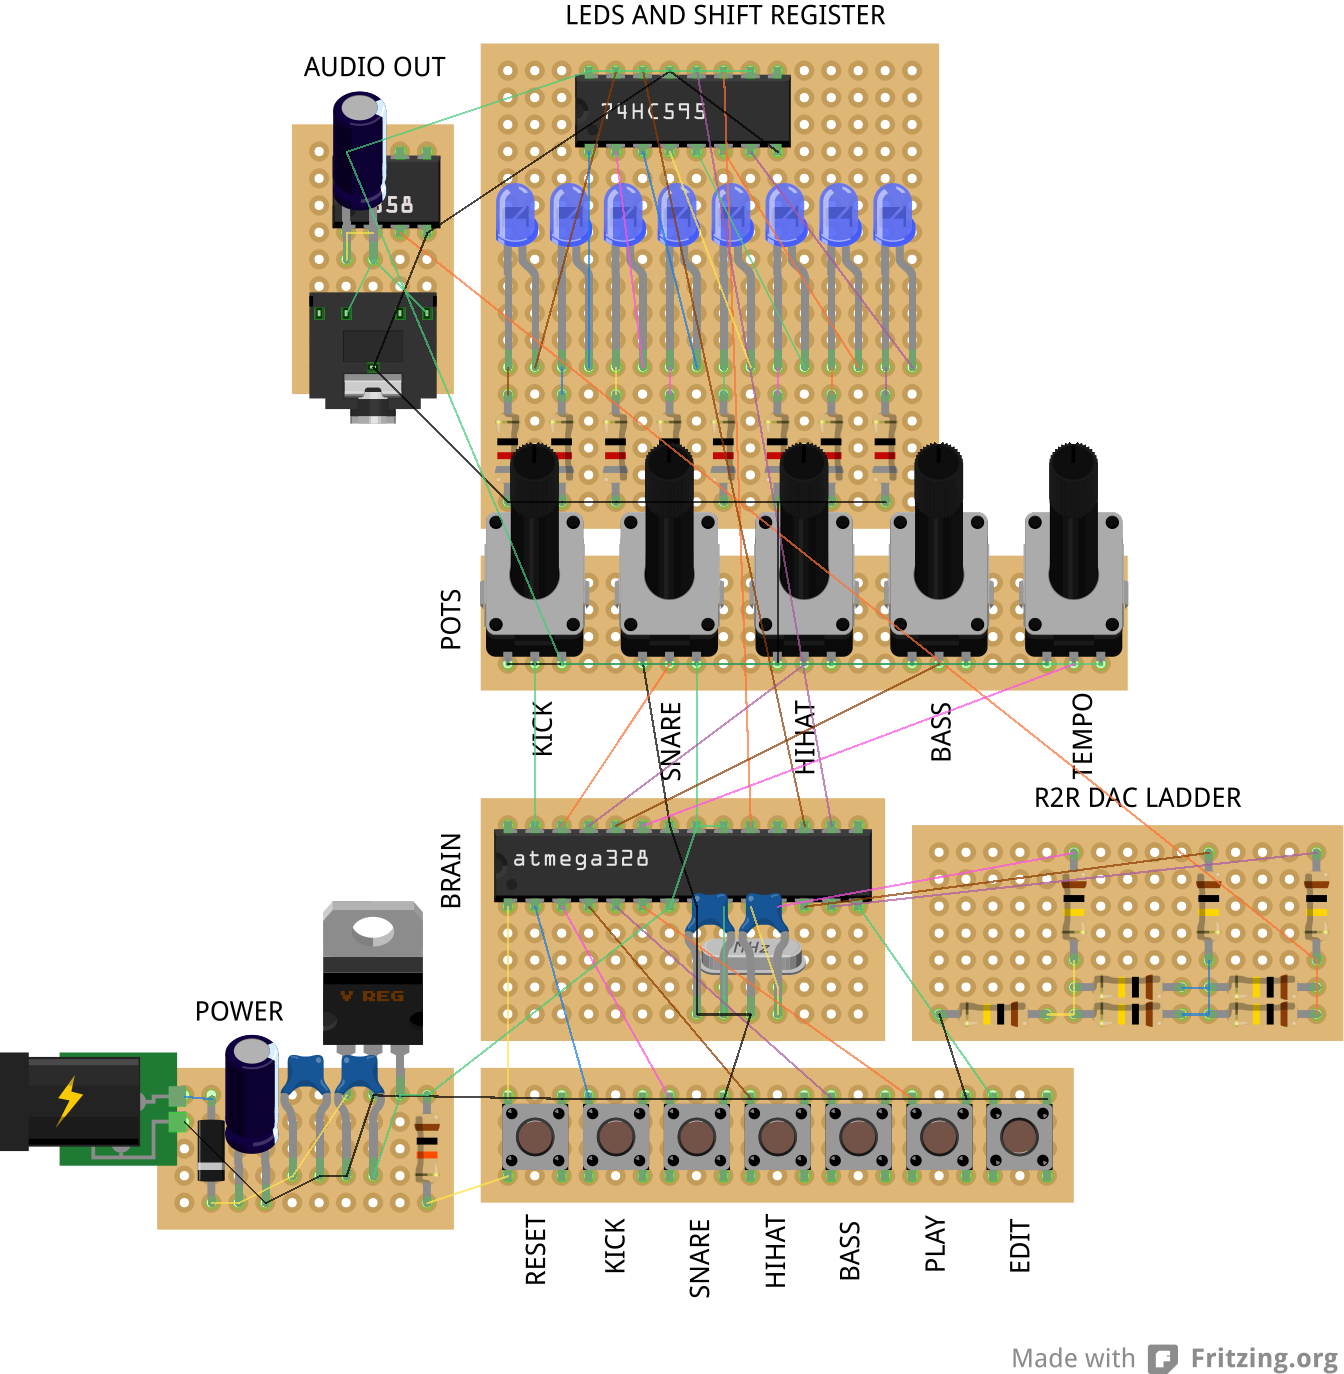
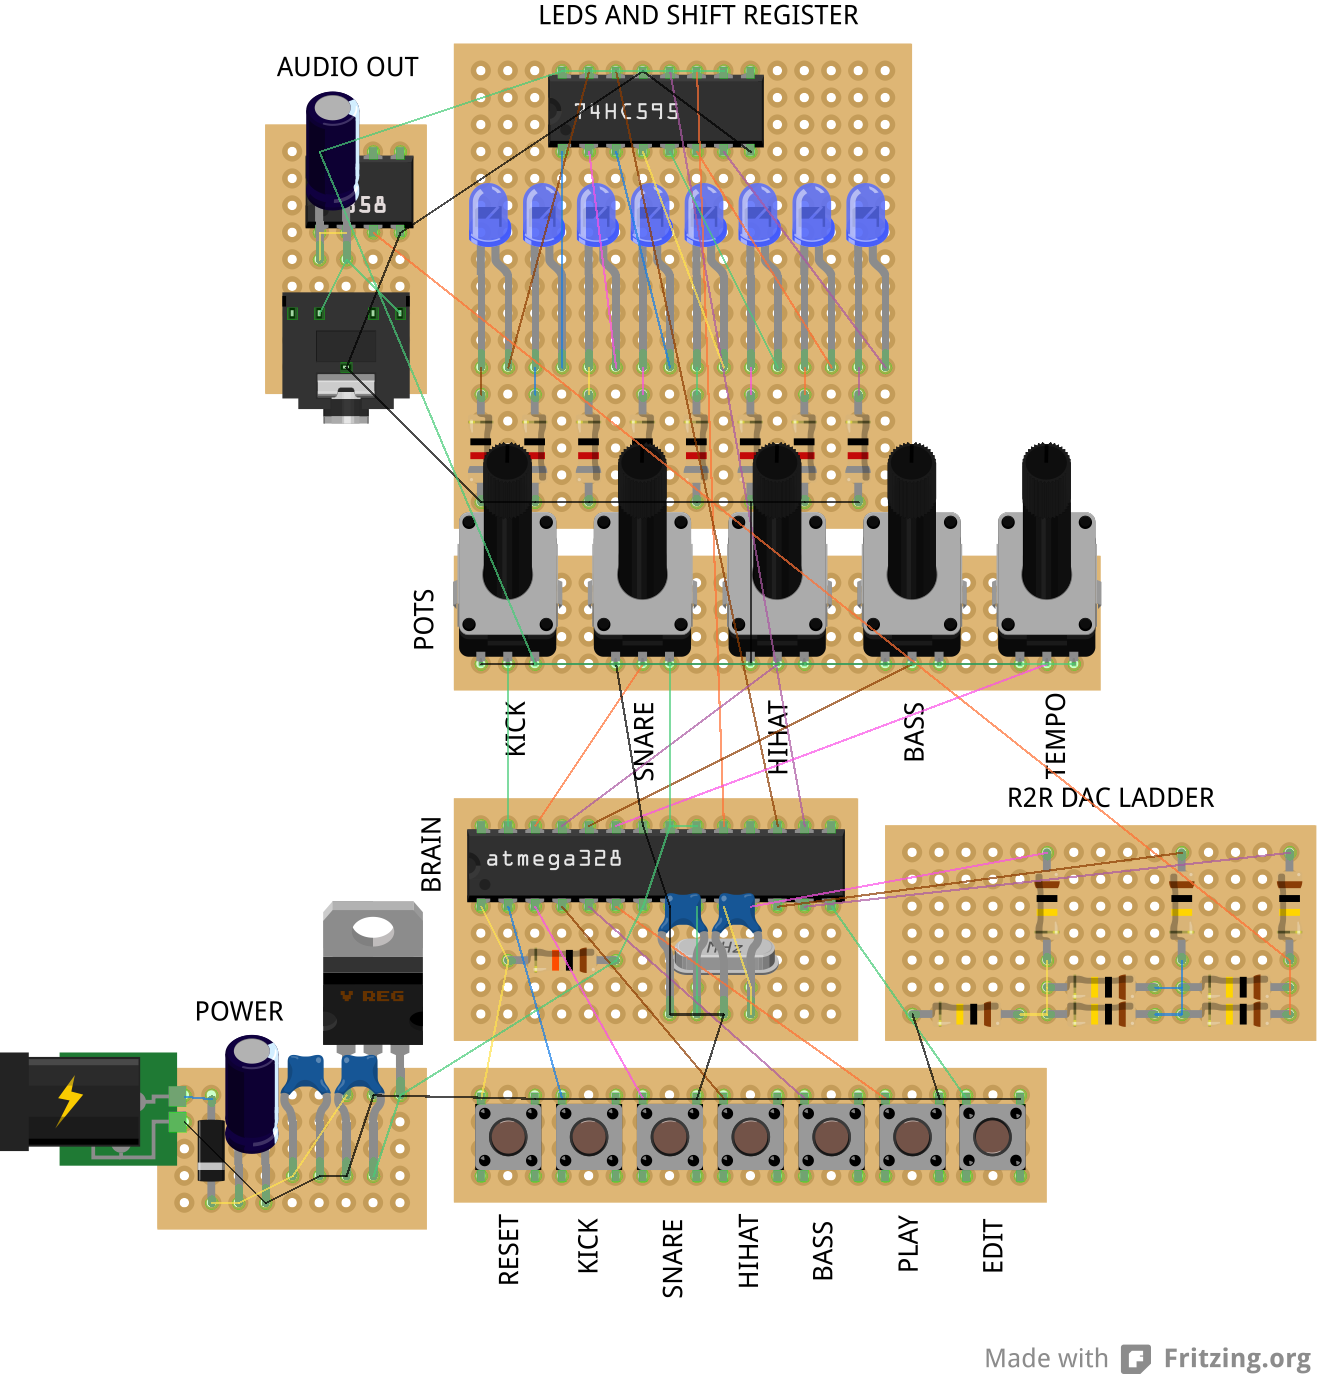
various tweaks, added pcb view

Changed region(s): [[0.0934, 0.0, 0.9651, 0.9476], [0.7472, 0.9782, 0.9651, 1.0], [0.0311, 0.7948, 0.0623, 0.8253]]

diff --git a/readme.md b/readme.md
@@ -1,5 +1,5 @@
 #lunchbeat - 1bit groovebox
-===================================================================
+---------------------------
 ###by Jan Cumpelik (jan@buranelectrix.com)
 
 The firmware is released under a GPL3.0 license.
@@ -8,6 +8,13 @@ The PCB layout and schematics are released under [cc-by-sa 3.0 license](http://c
 more info: [buranelectrix.com](http://buranelectrix.com)
 
 ###Tweaks by [Antivapor](https://github.com/antivapor)
+(still in edit)
 
 - added power supply
 - [parts list](https://docs.google.com/spreadsheet/ccc?key=0Ag2wE3s5FFDvdGZsRUFvTjZVSXh1MTJwTXhWOGJKZWc)
+- [Fritzing](http://fritzing.org) breadboard, schematic, and pcb
+
+notes to self
+* pots are 10k, not 100k.
+* might add jumpers
+* might swap crystal and caps to resonator with built-in caps
